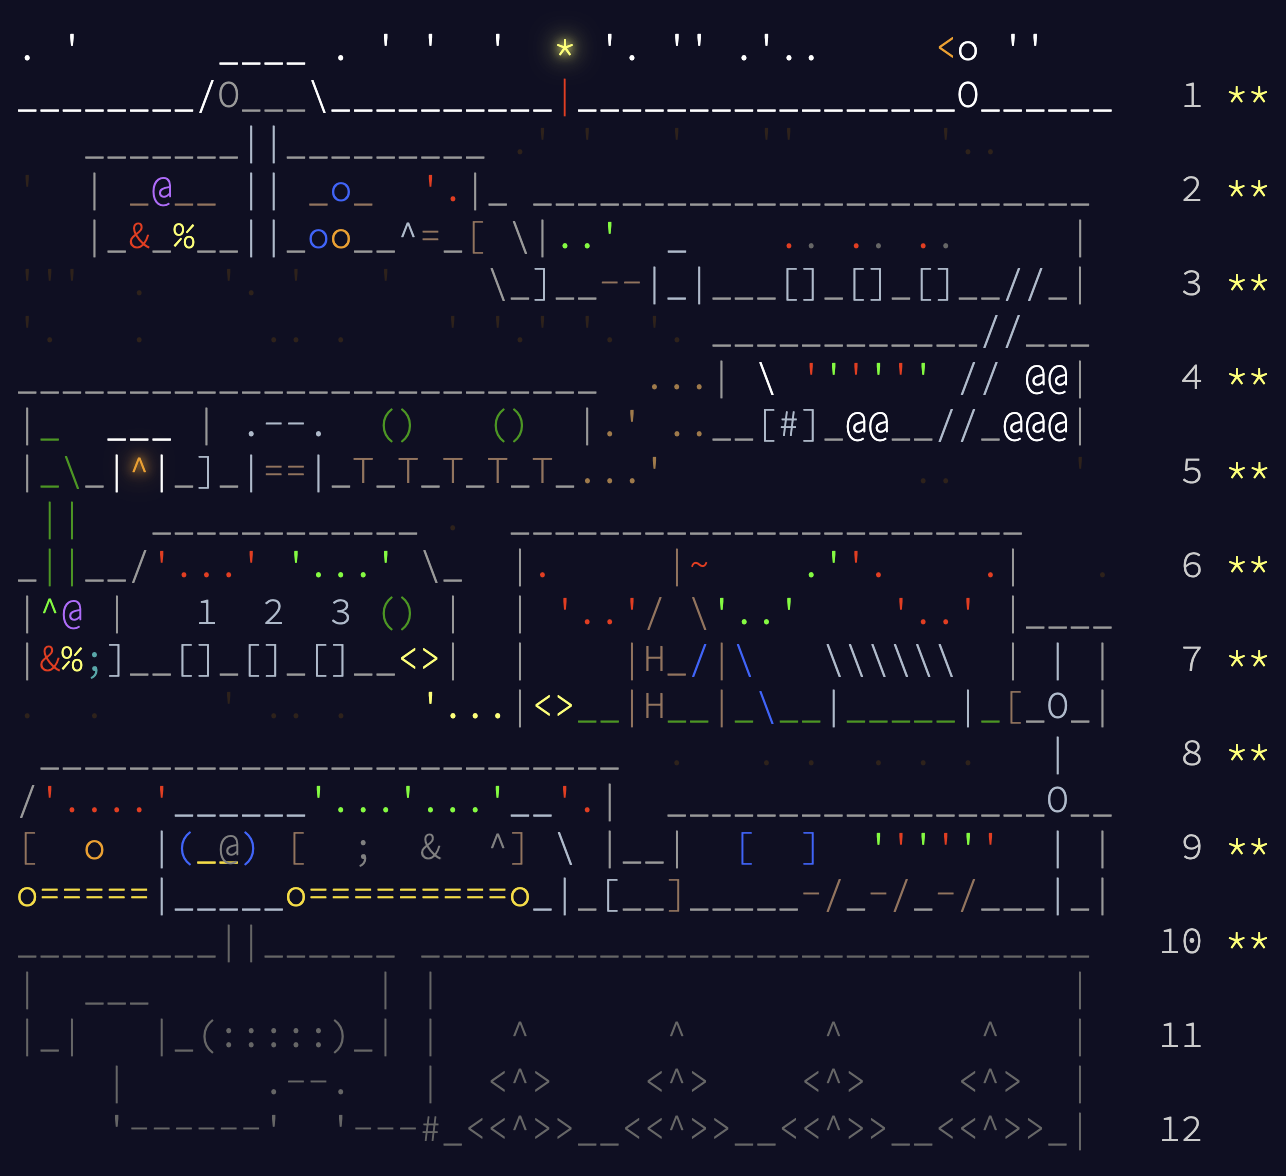
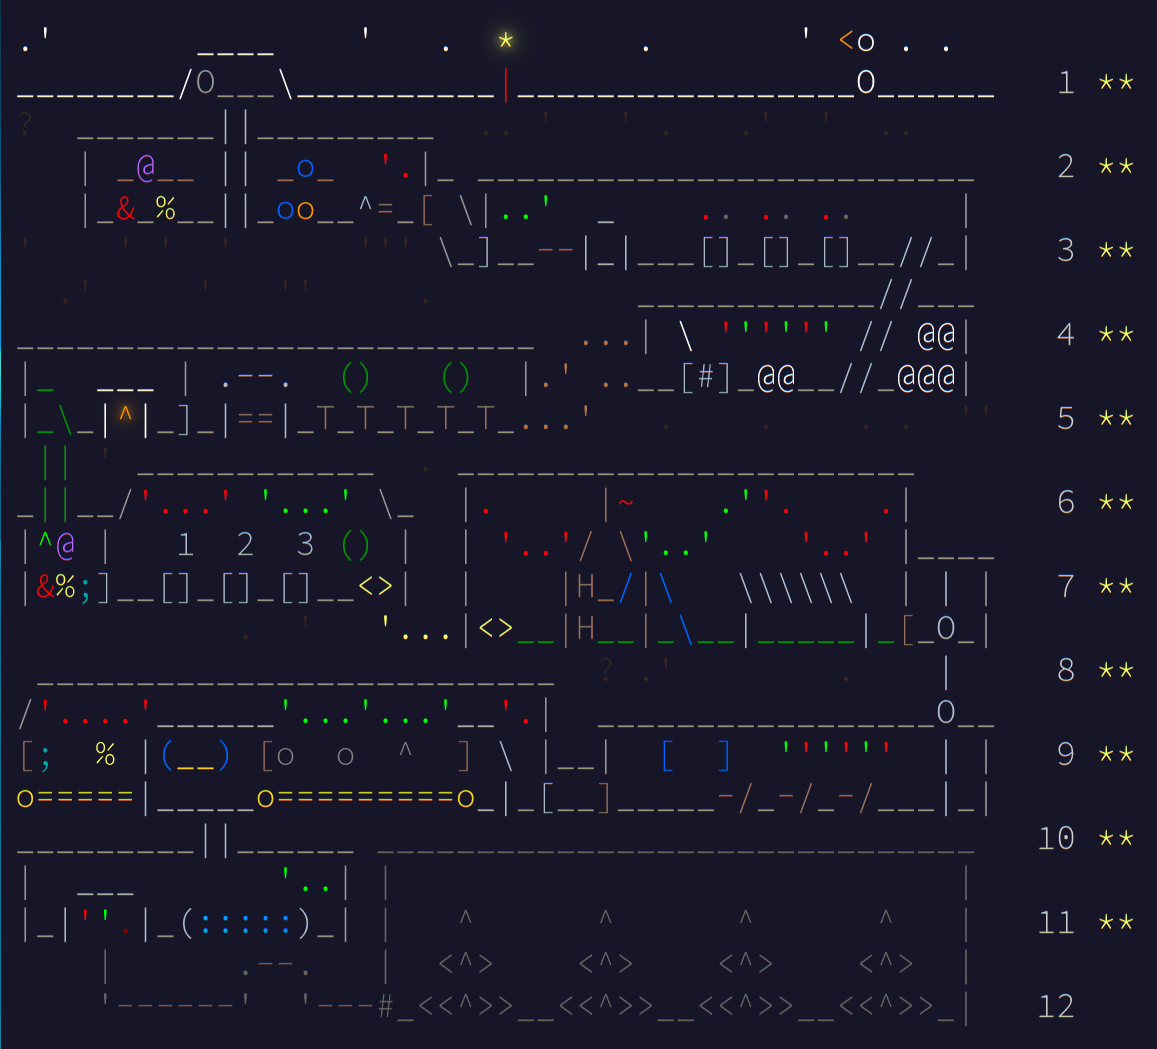
Finished day 11

diff --git a/README.md b/README.md
@@ -7,7 +7,7 @@ By Anders Piniesjö.
 This is an attempt to solve the [Advent of Code for 2025](https://adventofcode.com/2025) 
 in **PostScript**.
 
-<img src="images/progress.png" width="260px"/>
+<img src="images/progress.png" width="400px"/>
 
 ## Why
 About 27 years or so ago I wrote [PS-HTTPD](https://www.pugo.org/projects/pshttpd), 
@@ -60,7 +60,7 @@ That also makes recursion problematic for tree searching.
 
 *The successor of PostScript is PDF.*
 
-<img src="images/ps-logo.png" width="160px"/>
+<img src="images/ps-logo.png" width="220px"/>
 
 ## Results
 I have currently managed to finish days 1 to 10.
